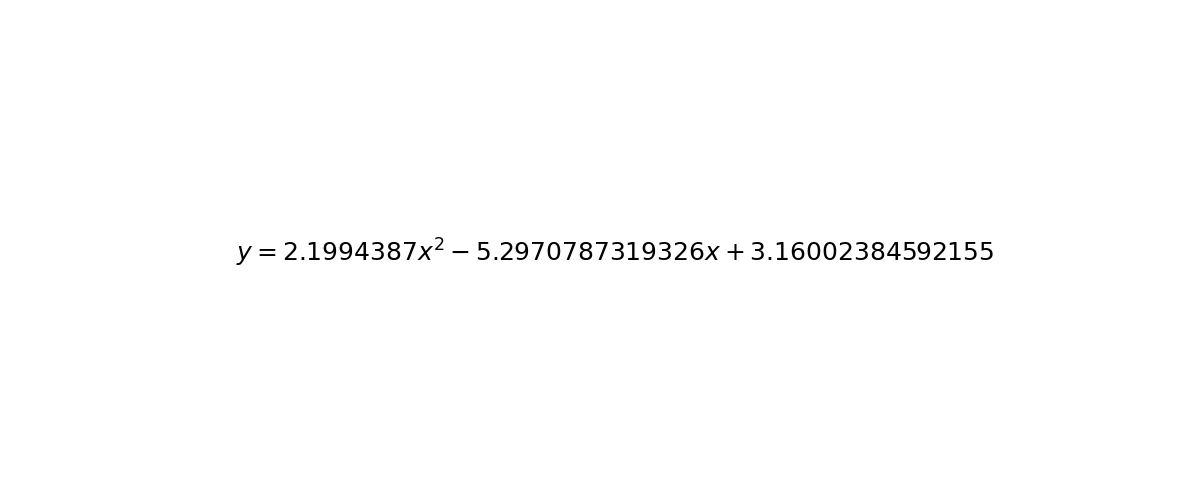
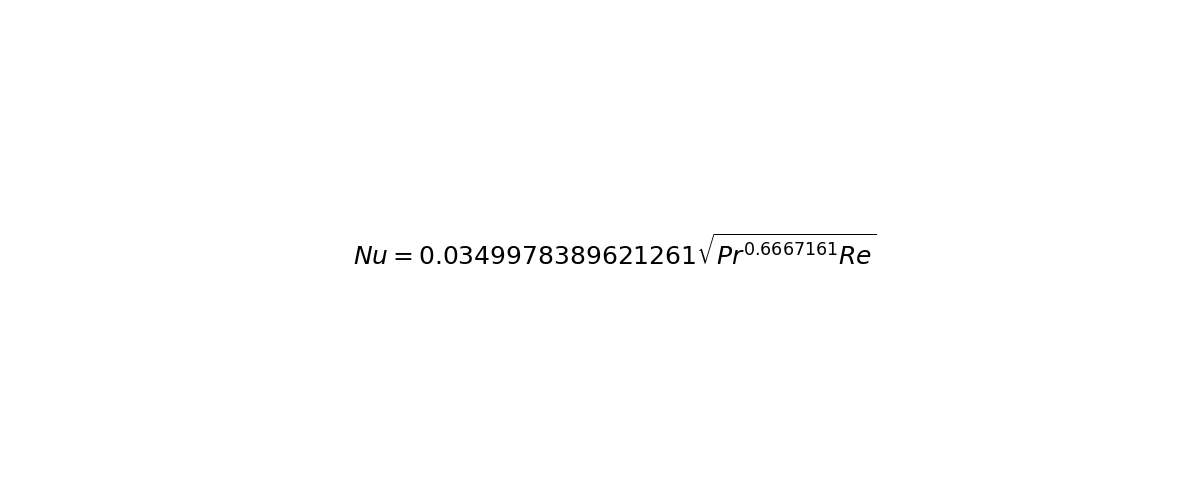
First Commit

Changed region(s): [[0.185, 0.48, 0.8325, 0.54]]

diff --git a/SymbolicRegressor.py b/SymbolicRegressor.py
@@ -1,6 +1,5 @@
 import os
 import shutil
-import glob
 import pandas as pd
 import matplotlib.pyplot as plt
 import sympy as sp
@@ -23,7 +22,7 @@ shutil.rmtree(temp_directory)
 ########################################################################################################################
 # Load the dataset - Input Values
 ########################################################################################################################
-data = pd.read_excel("datasets/quadratic.xlsx")
+data = pd.read_excel("datasets/nusselt.xlsx")
 
 ########################################################################################################################
 # Cleaning column names
@@ -54,7 +53,7 @@ model = PySRRegressor(
     unary_operators=["exp", "log", "sqrt"],  # Unary operators
     binary_operators=["+", "-", "*", "/", "^"],  # Binary operators
     early_stop_condition=(
-        "stop_if(loss, complexity) = loss < 1e-2 && complexity < 10"
+        "stop_if(loss, complexity) = loss < 1e-1 && complexity < 10"
         # Stop early if we find a good and simple equation
     ),
     elementwise_loss="myloss(x, y) = sum(abs.(x .- y) ./ abs.(x)) ",  # MAPE
@@ -62,7 +61,7 @@ model = PySRRegressor(
     temp_equation_file=True,
     tempdir=temp_directory,
     delete_tempfiles=False,
-    verbosity=1,  # Verbosity level
+    verbosity=2,  # Verbosity level
 
     warm_start=False,  # Não utilizar o modelo da rodada anterior
 )
@@ -130,7 +129,7 @@ plt.text(
 )
 plt.axis("off")
 plt.savefig("assets/BestEquation.png")
-plt.show()
+plt.close()
 
 ########################################################################################################################
 # Generate predicted values
@@ -163,13 +162,31 @@ plt.scatter(results_df['Real'], results_df['Predict'], alpha=0.6, label='Real vs
 plt.plot([results_df['Real'].min(), results_df['Real'].max()],
          [results_df['Real'].min(), results_df['Real'].max()],
          color='red', linestyle='--', label='Ideal Fit')
+
+x_min, x_max = plt.xlim()
+y_min, y_max = plt.ylim()
+
+x_pos = x_min + (x_max - x_min) * 0.5
+y_pos = y_min + (y_max - y_min) * 0.8
+
+plt.text(
+    x_pos,
+    y_pos,
+    f"${latex_equation}$",
+    fontsize=12,
+    ha="center",
+    va="center",
+    bbox=dict(facecolor='white', alpha=0.7, edgecolor='black', boxstyle='round,pad=0.3')
+)
+
 plt.xlabel('Real')
 plt.ylabel('Predict')
 plt.title('Real vs Predict')
 plt.legend()
 plt.grid(True)
+plt.savefig("assets/Fit.png")
 plt.show()
-
+plt.close()
 
 ########################################################################################################################
 # Generate the Python file with the function for the equation
@@ -187,9 +204,13 @@ def generate_equation_file(equation, variables, independent_variable, first_row_
 
         f.write('if __name__ == "__main__":\n')
         f.write('    # Test the function with example values\n')
-        f.write(f'    {", ".join([var for var in variables])} = {list(first_row_values)}  # Example values\n')
+        if len(first_row_values)>1:
+            f.write(f'    {", ".join([var for var in variables])} = {list(first_row_values)}  # Example values\n')
+        else:
+            f.write(f'    {", ".join([var for var in variables])} = {first_row_values[0]}  # Example values\n')
+
         f.write(f'    result = calculate_{independent_variable}(' + ", ".join([var for var in variables]) + ')\n')
-        f.write('    print(f"Result for input values: y = {result}")\n')
+        f.write('    print(f"'+ independent_variable +' = {result}")\n')
 
     print("File 'equation.py' generated successfully!")
 

diff --git a/surrogate_model/equation.py b/surrogate_model/equation.py
@@ -1,12 +1,12 @@
 import sympy as sp
 import math
 
-def calculate_y(x):
-    y = 2.1994387*x**2 - 5.2970787319326*x + 3.16002384592155
-    return float(y)
+def calculate_Nu(Re, Pr):
+    Nu = 0.0349978389621261*math.sqrt(Pr**0.6667161*Re)
+    return float(Nu)
 
 if __name__ == "__main__":
     # Test the function with example values
-    x = [0.0]  # Example values
-    result = calculate_y(x)
-    print(f"Result for input values: y = {result}")
+    Re, Pr = [239696.96969696973, 3.941666666666667]  # Example values
+    result = calculate_Nu(Re, Pr)
+    print(f"Nu = {result}")
